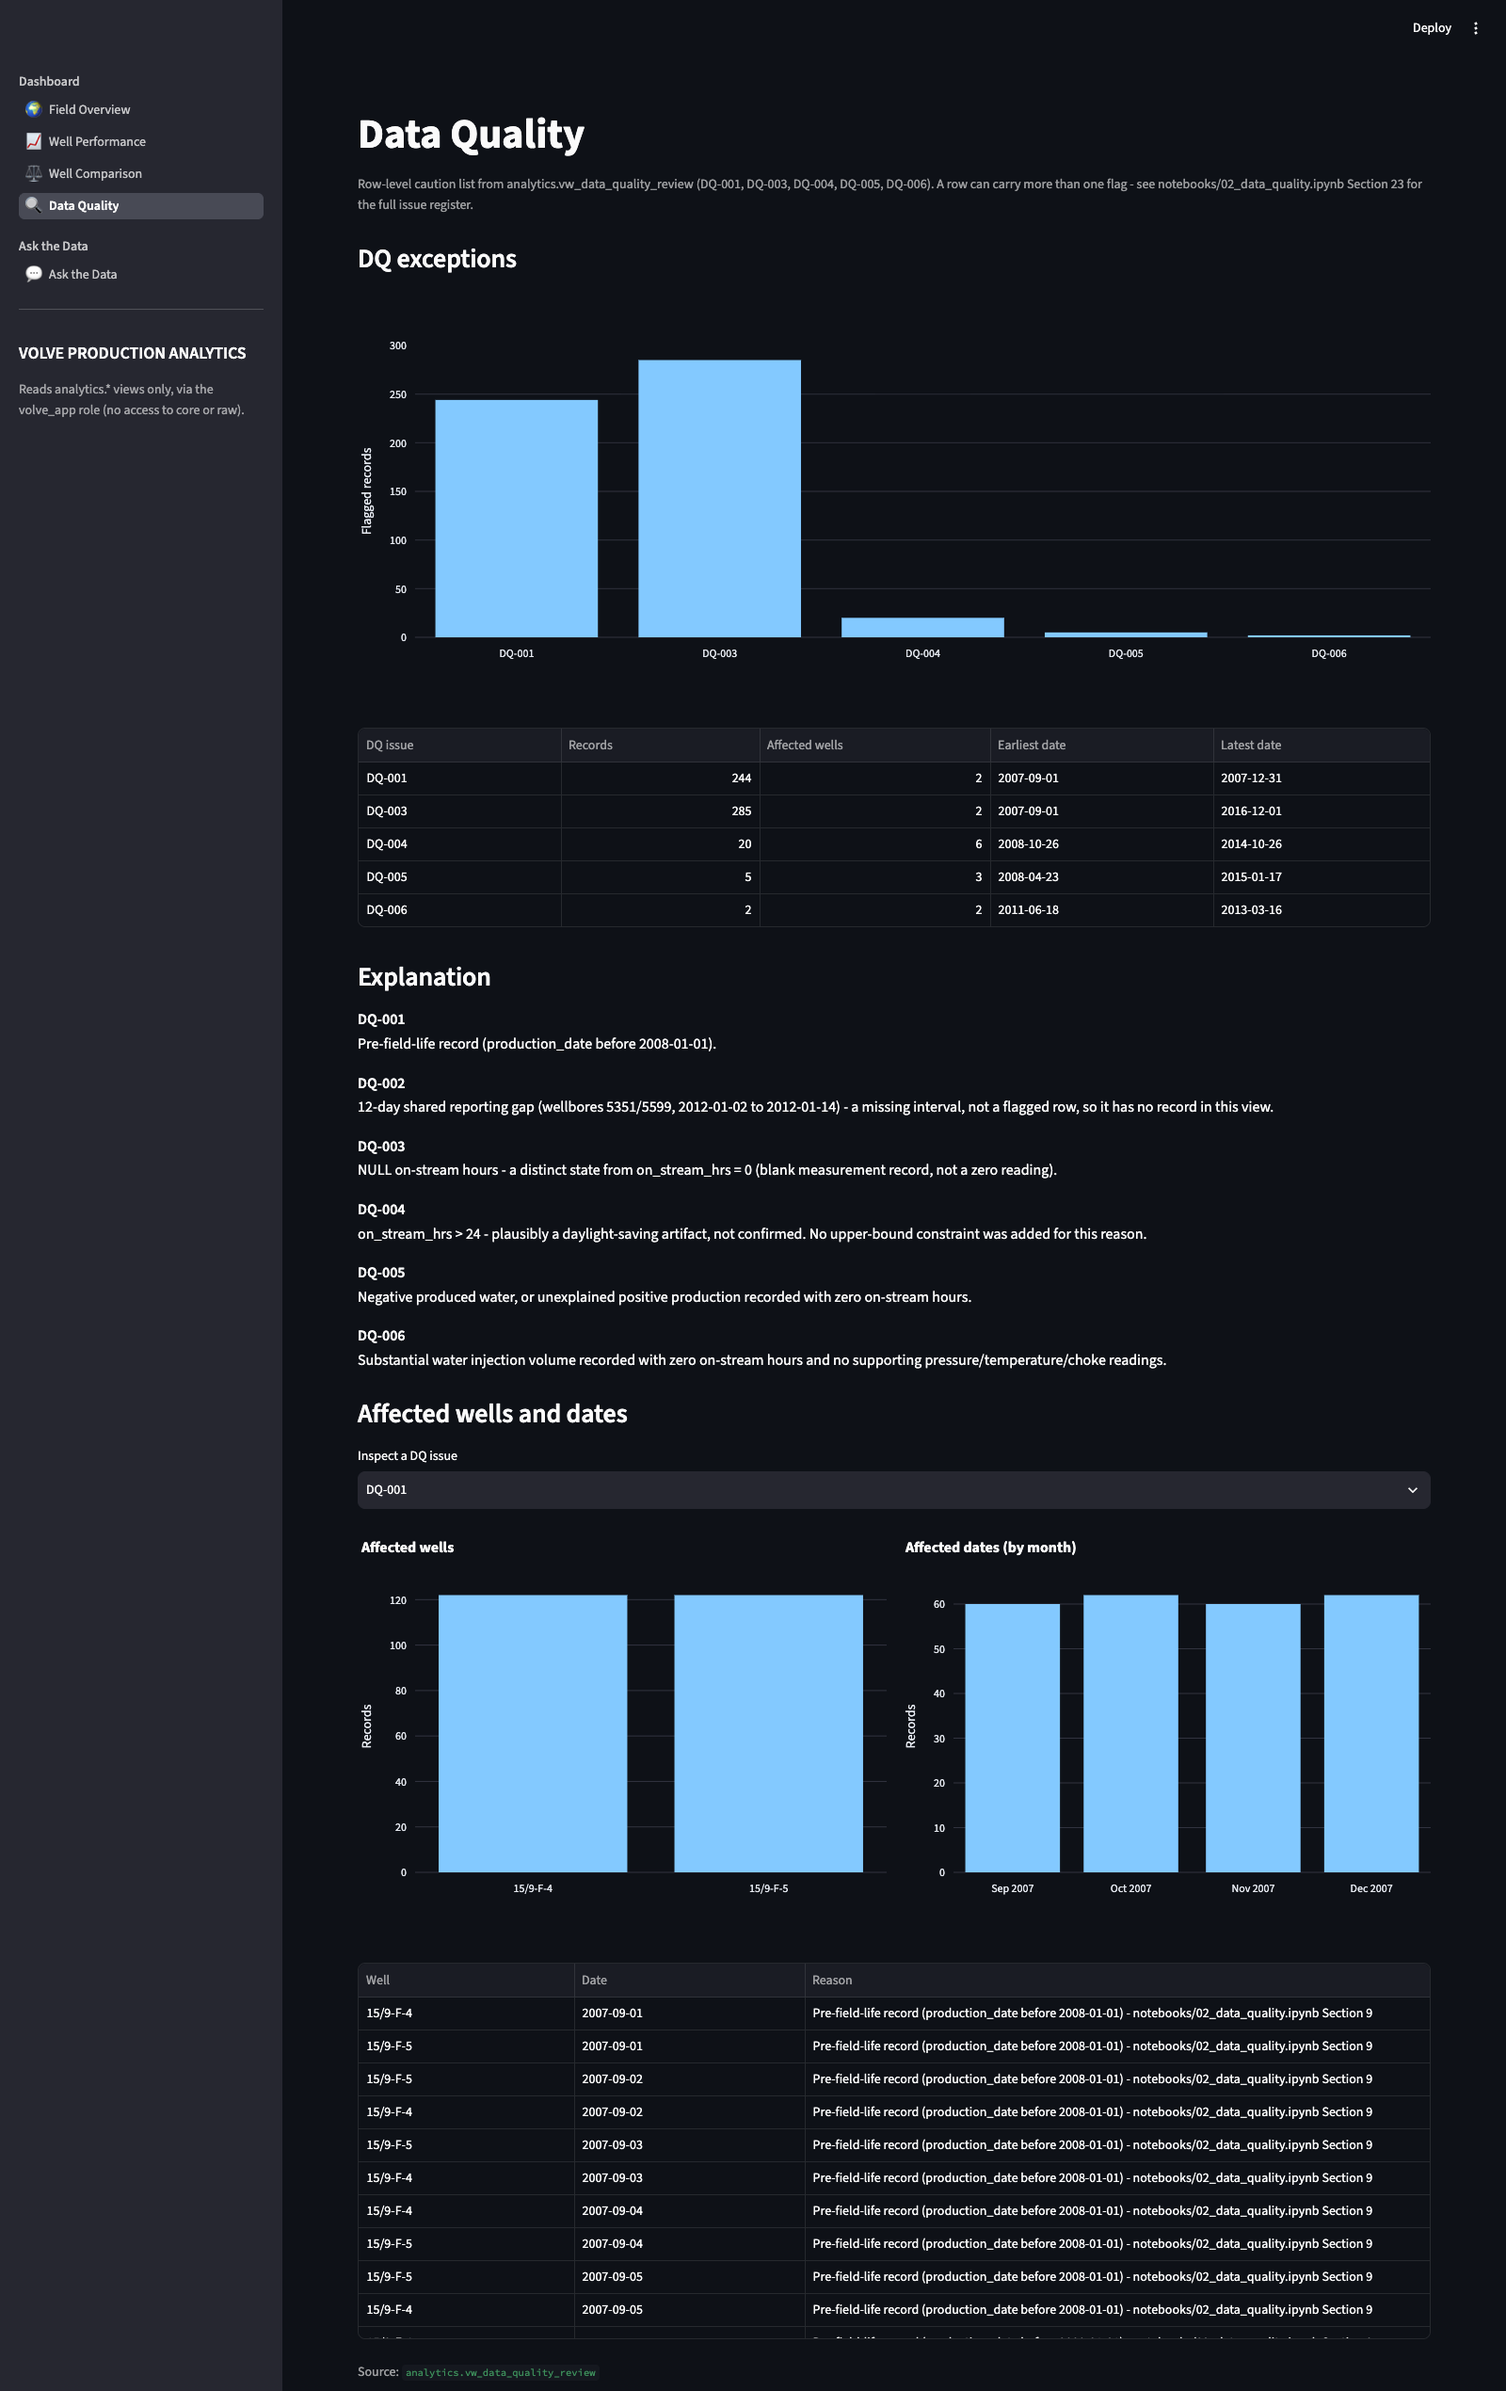
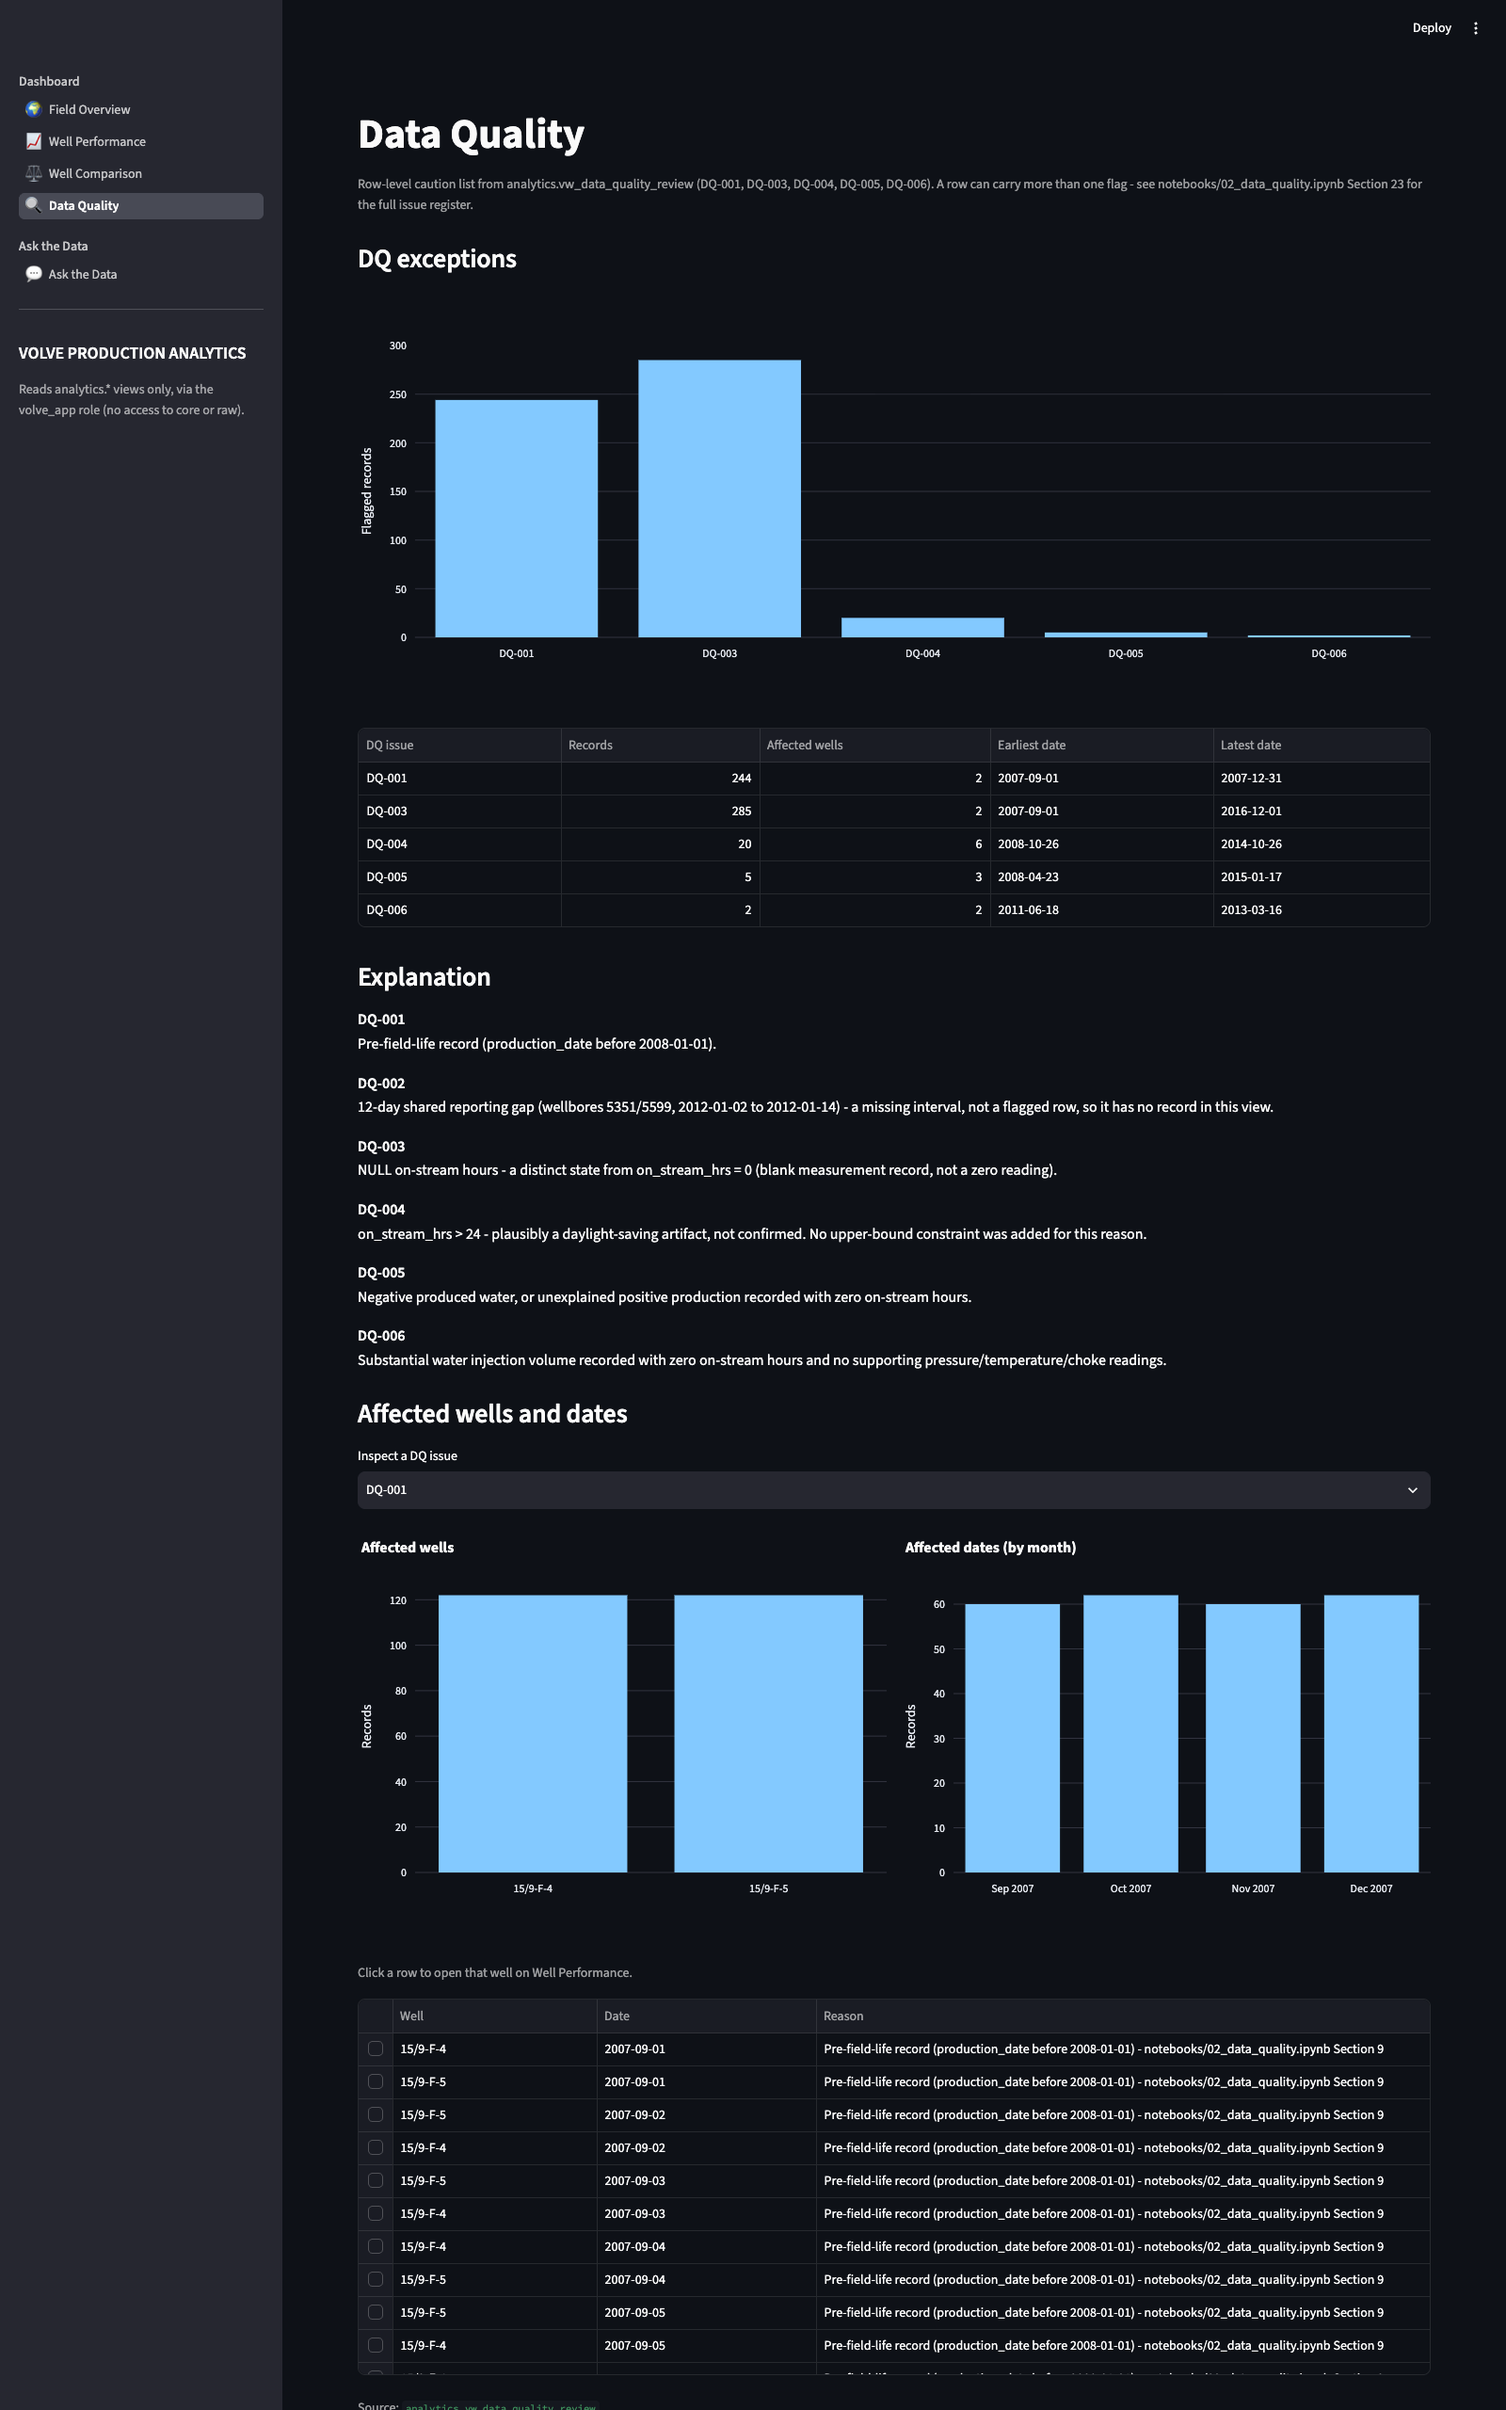
Add click-to-navigate from Data Quality's detail table to Well Performance
Same pattern as Field Overview's Well summary and Well Comparison's
ranking tables: clicking a row in the affected-wells-and-dates detail
table sets st.session_state for Well Performance's selectbox key and
calls st.switch_page. Verified live including the sorted-column edge
case (sorted the Well column descending, clicked the new first row,
correctly opened 15/9-F-5 rather than whatever was originally there).

All three predefined-dashboard pages now share this navigation path -
notice something in a table, click through to investigate it on Well
Performance.

diff --git a/app/views/data_quality.py b/app/views/data_quality.py
@@ -59,13 +59,19 @@ if selected_issue:
         fig3 = px.bar(by_date, x="month", y="record_count")
         fig3.update_layout(title="Affected dates (by month)", yaxis_title="Records", xaxis_title=None)
         st.plotly_chart(fig3, width="stretch")
+    st.caption("Click a row to open that well on Well Performance.")
     detail_display = detail.copy()
     detail_display["production_date"] = detail_display["production_date"].dt.date
-    st.dataframe(
+    detail_event = st.dataframe(
         detail_display.rename(columns={
             "wellbore_name": "Well", "production_date": "Date", "review_reason": "Reason",
         }),
         width="stretch", hide_index=True,
+        on_select="rerun", selection_mode="single-row",
     )
+    if detail_event.selection.rows:
+        selected_well = detail_display.iloc[detail_event.selection.rows[0]]["wellbore_name"]
+        st.session_state["well_performance_select"] = selected_well
+        st.switch_page("views/well_performance.py")
 
 st.caption(f"Source: `{q.VIEW_DQ}`")
